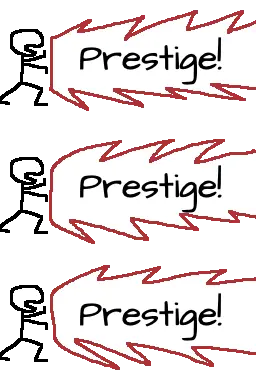
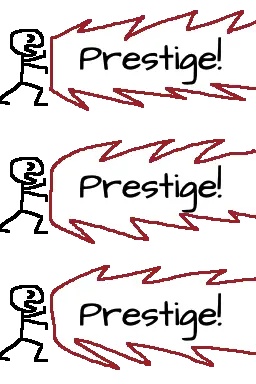
who knows

diff --git a/src/renderer/boilingSprite.ts b/src/renderer/boilingSprite.ts
@@ -51,8 +51,10 @@ export function splitChromaOutlinePixels(
   const mask = new Uint8ClampedArray(pixels.length);
   const visible = new Uint8ClampedArray(pixels);
   for (let index = 0; index < pixels.length; index += 4) {
-    const keyed = pixels[index] === chromaKey[0] && pixels[index + 1] === chromaKey[1]
-      && pixels[index + 2] === chromaKey[2] && pixels[index + 3]! > 0;
+    const keyed = pixels[index]! - pixels[index + 1]! >= 8
+      && pixels[index + 2]! - pixels[index + 1]! >= 8
+      && Math.abs((pixels[index]! - pixels[index + 2]!) - (chromaKey[0] - chromaKey[2])) <= 48
+      && pixels[index + 3]! > 0;
     if (keyed) {
       mask[index] = 255; mask[index + 1] = 255; mask[index + 2] = 255; mask[index + 3] = pixels[index + 3]!;
       visible[index + 3] = 0;

diff --git a/test/boilingSprite.test.ts b/test/boilingSprite.test.ts
@@ -28,20 +28,23 @@ describe('emblem outline chroma key', () => {
       255, 64, 255, 255,
       0, 0, 0, 255,
       0, 0, 0, 0,
-      254, 64, 255, 255,
+      252, 1, 252, 255,
+      38, 0, 38, 255,
     ]);
     const { mask, visible } = splitChromaOutlinePixels(pixels, [255, 64, 255]);
     expect([...mask]).toEqual([
       255, 255, 255, 255,
       0, 0, 0, 0,
       0, 0, 0, 0,
-      0, 0, 0, 0,
+      255, 255, 255, 255,
+      255, 255, 255, 255,
     ]);
     expect([...visible]).toEqual([
       255, 64, 255, 0,
       0, 0, 0, 255,
       0, 0, 0, 0,
-      254, 64, 255, 255,
+      252, 1, 252, 0,
+      38, 0, 38, 0,
     ]);
   });
 });

diff --git a/src/ui/playerEmblemCard.ts b/src/ui/playerEmblemCard.ts
@@ -26,7 +26,7 @@ export function createPlayerEmblemCard(player: { name: string; level?: number; e
   element.className = 'player-emblem-card';
   const level = Number.isSafeInteger(player.level) && player.level! > 0 ? player.level! : 1;
   let emblemKind = player.emblem ?? null;
-  const outline = `/emblems/borders/${emblemBorderNumber(player.name)}.png`;
+  const outline = `/emblems/borders/${emblemBorderNumber(player.name)}.webp`;
   const emblem = createBoilingSprite({
     src: PLAYER_EMBLEM_BY_ID.get(emblemKind ?? 'beta-og')!.sheet,
     clock,

diff --git a/src/core/playerEmblem.ts b/src/core/playerEmblem.ts
@@ -13,7 +13,7 @@ export interface PlayerEmblemDefinition {
 export const PLAYER_EMBLEMS: readonly PlayerEmblemDefinition[] = [
   { id: 'beta-og', name: 'Beta OG', sheet: '/emblems/beta-og-sheet.webp' },
   { id: 'new-player', name: 'New Player', sheet: '/emblems/new-player-sheet.webp' },
-  { id: 'prestige', name: 'Prestige', sheet: '/emblems/prestige-sheet.png' },
+  { id: 'prestige', name: 'Prestige', sheet: '/emblems/prestige-sheet.webp' },
   { id: 'computer', name: 'Computer', sheet: '/emblems/computer-sheet.webp' },
 ];
 

diff --git a/test/playerEmblem.test.ts b/test/playerEmblem.test.ts
@@ -6,7 +6,7 @@ describe('player emblems', () => {
     expect(PLAYER_EMBLEMS).toEqual([
       { id: 'beta-og', name: 'Beta OG', sheet: '/emblems/beta-og-sheet.webp' },
       { id: 'new-player', name: 'New Player', sheet: '/emblems/new-player-sheet.webp' },
-      { id: 'prestige', name: 'Prestige', sheet: '/emblems/prestige-sheet.png' },
+      { id: 'prestige', name: 'Prestige', sheet: '/emblems/prestige-sheet.webp' },
       { id: 'computer', name: 'Computer', sheet: '/emblems/computer-sheet.webp' },
     ]);
   });
